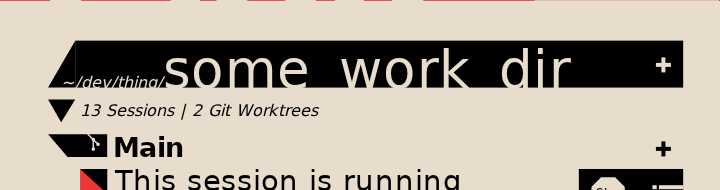
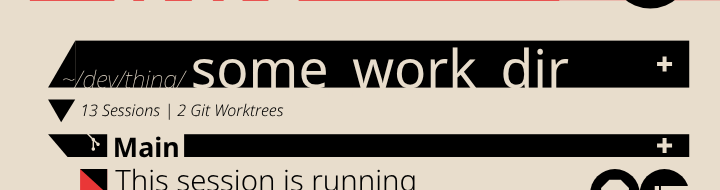
Re-review the mockup against the redrawn design
The wordmark bleed is deliberate (24.5% of the cap, 8.8px off the left edge),
so it moves out of the defect list; the footer overflow was a fallback-font
artifact and is gone. Adds what the new design encodes (disc grid on a 24.78
pitch, 30px rows, 8 rows) and the seven issues that remain, with measured
coordinates.

The rows crop grows to 264 to cover the eighth row, and the 1280 render drops to
scale 1 so the committed set stays under a megabyte.

diff --git a/ui_work/mocks/review.md b/ui_work/mocks/review.md
@@ -1,83 +1,97 @@
 # Mockup review: `paperape_brutal_mainscreen.svg`
 
-Notes from rendering the mockup at 360/390/1280 and reading the file. Not a
-ticket; a checklist while the design is still moving.
+What the mockup encodes, what its render gets wrong, and the open questions.
+Numbers are measured from the SVG with `getBBox`, so they survive an Inkscape
+edit that moves things around.
 
 ## Rendering it
 
+Fonts first: `~/install_puppet_strings.sh` installs Noto Sans (variable) and
+`chrome-headless-shell`. A fallback font changes every measurement below, so
+check that the family actually resolves before trusting a render.
+
 ```bash
-LD_LIBRARY_PATH=/tmp/chromedeps/root/usr/lib/x86_64-linux-gnu \
-PIXIP_CHROME=/tmp/pixip-chrome/chrome-headless-shell/linux-158.0.8127.36/chrome-headless-shell-linux64/chrome-headless-shell \
-node tools/svg-review.mjs ui_work/mocks/paperape_brutal_mainscreen.svg --widths 360,390 --metrics
+PIXIP_CHROME=... node tools/svg-review.mjs ui_work/mocks/paperape_brutal_mainscreen.svg \
+  --out ui_work/mocks/review --widths 360,390 --crops all
+node tools/svg-review.mjs ui_work/mocks/paperape_brutal_mainscreen.svg \
+  --out ui_work/mocks/review --widths 1280 --crops none
 ```
 
-PNGs and `metrics.json` land in `tmp/svg-review/paperape_brutal_mainscreen/`.
-Named crops (`top`, `banner`, `rows`, `footer`) are in SVG user units, so they
-keep working if the artboard grows.
+`metrics.json` records the palette, type sizes and stroke widths; a new colour
+or a new font size shows up there as a diff on one line.
 
 ## Rendered images
-
-Committed so the defects below are visible away from this machine, produced by
-the command above at `2` device pixels per CSS pixel:
 
 | Image | Shows |
 | --- | --- |
 | `review/…-360.png` | the mockup at its authored width |
 | `review/…-390.png` | the same at a 390 phone width |
-| `review/…-1280.png` | stretched to 1280; exposes the stroke-width drift |
-| `review/…-360-top.png` | clipped wordmark, chevron below the band |
-| `review/…-360-banner.png` | `~/dev/thing` cut by the notch |
-| `review/…-360-rows.png` | chips, `!` crowding, `Stop` at 5.87 px, meta strings |
-| `review/…-360-footer.png` | preview through the envelope, `9987` clipped |
+| `review/…-1280.png` | stretched to 1280 |
+| `review/…-360-top.png` | wordmark bleed, the header disc |
+| `review/…-360-banner.png` | the path label crossing the banner edge |
+| `review/…-360-rows.png` | chips, action discs, `Stop` at 4.34 px |
+| `review/…-360-footer.png` | message preview, envelope, count |
 
-Regenerate with `--out ui_work/mocks/review` when the mockup changes; the file
-names are the tool's, so a diff only appears for images that actually changed.
-
-## What the file already encodes
+## What it encodes
 
 | | |
 | --- | --- |
 | Canvas | 360 x 640, 1:1 viewBox |
-| Palette | `#e8ddcc` paper (27 fills), `#000000` ink (96), `#ea3737` red (11) |
-| Type | 9 sizes: 5.87, 8, 13.33, 13.43, 14.67, 16, 22.82, 26.67, 82.67; Noto Sans, weights 100/300/bold/900 |
-| Rows | 30 px step; chips 13.55 x 24.78 at x=40.05; title x=57.6 |
-| Right column | action cell 52.17 wide at x=289.42; icon cell 21.68 wide at x=319.91 (right edge 341.59) |
-| Guides | x 24.05 / 30.58 / 40.05 / 53.60 / 57.60 / 289.42 / 322.66 / 341.59; y 55.4 / 87.3 / 99.4 / 110.8 / 116.7 / 145.5 / 170.3 |
+| Palette | `#000000` ink (63 fills), `#e8ddcc` paper (41), `#ea3737` red (12); strokes: 8 paper, 4 ink |
+| Type | Noto Sans only; 101.33 wordmark, 26.67 dir name, 22.82 `!`, 16 footer, 14.67 row title, 13.43 `Main`, 8 meta/stats, 6.61 badge `!`, 4.34 `Stop` |
+| Grid | left gutter 40.05, text 57.60, right edge 344.62; banner 37.60..344.62 |
+| Rows | 8 rows on a 30 px pitch; title box 20 tall, meta 8 px/11 tall at +19.4 |
+| Chips | 13.55 x 24.78 at x 40.05, first at y 169.49; row 1's red chip is a path |
+| Actions | discs r 12.39 at cx 307.45 and 332.23 (right edge 344.62), 24.78 pitch; row 8 has four: 257.89, 282.67, 307.45, 332.23 |
+| Wordmark | baseline 54.65 in a band ending 55.41; bleed box x -8.79, 200.84 wide |
 
-Missing from `tokens.css`: space, type scale, stroke widths. Colours are done.
+## Deliberate
 
-## Render defects
+- **Wordmark bleeds off the top and the left.** 101.33 px type with a 54.65
+  baseline cuts **24.5% of the cap** (17.7 of 72.35) and 8.8 px off the left
+  edge, with the baseline sitting on the band's bottom edge. Two edges and a
+  deep cut is what makes it read as a crop instead of a clipping bug; keep both
+  numbers if the band or the type size changes.
+- Chips encode liveness as fill: rows 2–4 solid ink, rows 5–8 a black frame with
+  a paper inset. Red chip + `!` is live attention; paper chip + ink `!` is cold
+  attention.
+- The header's list glyph runs past its disc to the artboard edge, echoing the
+  wordmark bleed. Confirm this is wanted.
 
-1. **Wordmark clipped.** Baseline 56.2 with 82.67 px type in a 55.4 px band puts
-   cap tops at y=-2. Either band 62-66 tall or type 74 at baseline 52.
-2. **Top-right chevron hangs below the band** onto the paper.
-3. **`~/dev/thing` is cut by the banner notch** (same baseline as `some_work_dir`).
-   Move it above the banner or pad it inside the notch.
-4. **Footer overflows 360 px.** The preview runs through the envelope (x=266.5)
-   and `9987` at x=316.8 is clipped. Preview needs a width budget with ellipsis
-   (~190 px); count right-aligned at 360-13.3.
-5. **`Stop` is 5.87 px** in a 52 x 24.8 cell. 8 px fits; 5.87 is a blur at 1x.
-6. **Rows 3 and 4 have identical chips** (solid ink), so "finished" and "sent a
-   message" differ only by the action cell.
-7. **Row 6's `!` is 22.8 px in a 24.78 px outlined chip** and touches the border;
-   row 2's `!` sits in a filled chip and reads better.
+## Broken
 
-## Source hygiene (does not show in the render)
+1. **The path label is unreadable.** `~/dev/thing` and the dir name are one text
+   node (box y 70.79–106.79) whose baseline sits on the banner's top edge
+   (75.32). The path part is paper-on-paper above the banner and cut where it
+   crosses the black, so it reads as a strikethrough. Split it into its own node
+   and either put it fully above the banner in ink or fully inside it.
+2. **`Stop` is 4.34 px** — a 10 x 7 box for four letters inside a 24.78 disc
+   with a paper octagon. At 1x it is a smudge. Let the octagon carry the meaning
+   and drop the word, or shrink the octagon and set the label at 7 px or more.
+3. **Meta lines overrun the 30 px pitch by ~1 px** (meta box ends 165.02, next
+   title starts 164.64). Either a 31 px pitch or a 9 px line-height for meta.
+4. **Row 8 has two empty discs**, which read as disabled buttons. If the row is
+   an overflow test, keep it; if it is meant to show real actions, fill them.
+5. **The envelope badge is a 2 x 9 px `!`** — a filled dot (r 2.5) survives at
+   1x where the glyph does not.
+6. **`Idle| 24 Messages`** (three rows) is missing the space before the pipe.
+   Fix the formatter, not the mock.
+7. **The footer is fine** — text ends 253.3, envelope 266.5–307.6, count
+   314.6–351.6. The overlap seen earlier was a fallback-font artifact.
 
-- 2 layers, **no groups**: 113 siblings, so nothing selects as a row.
-- 14 distinct `stroke-width` values (2 on 88 elements); copy-paste residue.
-- Sub-pixel drift: chips 24.780483/24.780487/24.780472, cells 52.171478 vs 21.676975.
-- 3 id/type mismatches: `path` named `rect21`, `path` named `rect27`,
-  `ellipse` named `path120`. All ids are Inkscape auto-names.
-- Inline styles everywhere: 137 `fill`, 110 `stroke`, 116 `stroke-width`.
-- Two text nodes glue separate fields via tspans
-  (`~/dev/thing` + `/` + `some_work_dir`; `New Message!` + the preview quote).
+## Source hygiene
+
+- 3 layers (`Layer 2` background, `Layer 1` everything, `Layer 3` the action
+  discs), still **no groups**: a row is 6–8 loose siblings.
+- The same list glyph path is pasted **8 times** and the envelope twice. One
+  `<symbol>`/`<use>` pair turns a glyph tweak into a single edit.
+- 18 distinct `stroke-width` values (mostly transform scale factors) and 54
+  inline `font-family` declarations; classes would collapse both.
 
 ## Open questions
 
-- The SVG is behind the photos: no arch `sessions` tab, `Stop` is cream-on-black
-  here vs red-outline in the photo, and there is no red overprint on the
-  wordmark. Which artifact is authoritative?
-- `some_work_dir` (underscores) vs "some work dir" (spaces) in the photo.
-- Should "waiting for input" privilege an answer action over `Stop`?
-- Rows 3/4: one chip or two states?
+- Row 8: overflow test or a real action set?
+- Live attention (red + paper `!`) vs cold attention (paper + ink `!`) — is the
+  colour shift the point, or should the glyph change shape instead?
+- Does the `Stop` disc stay a word, or become the octagon alone?
+- Is the header glyph's overshoot intended?
